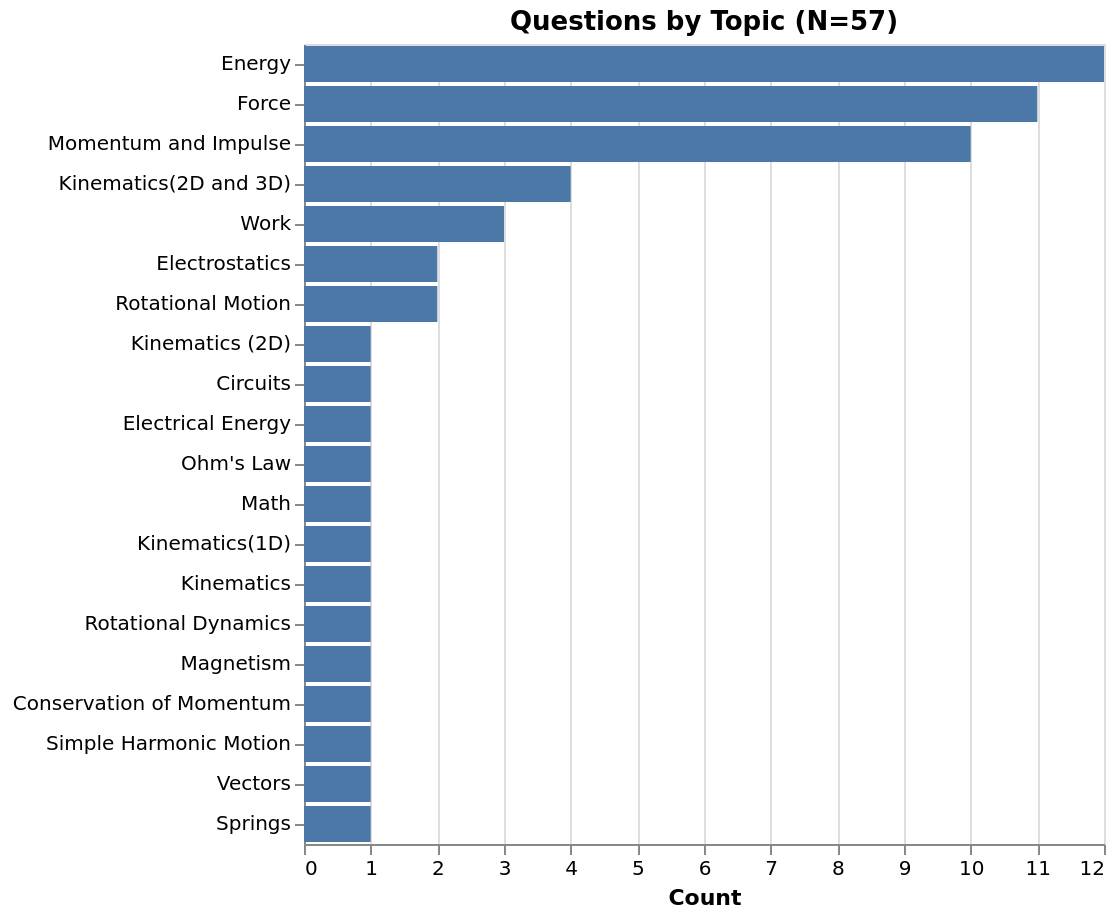
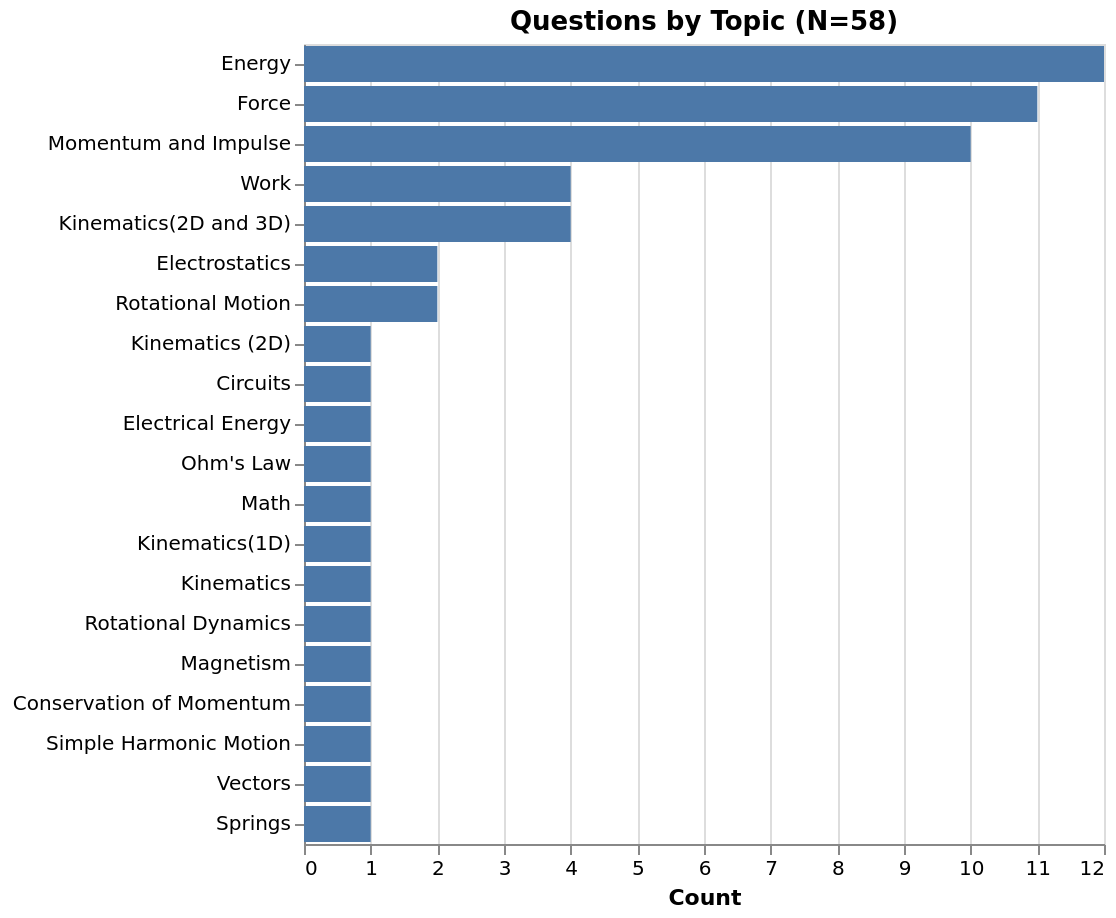
Update TOC via GH Action

Changed region(s): [[0.0609, 0.183, 0.2742, 0.2745], [0.4265, 0.2135, 0.5179, 0.2745], [0.7616, 0.0, 0.7921, 0.0305]]

diff --git a/content/index.md b/content/index.md
@@ -1,0 +1,63 @@
+# Question Index 
+ 
+ 
+ | Question | Public HTML | Public MD | Instructor MD | PL |
+| --------- | --------- | --------- | --------- | --------- |
+1 |  [Q 1](https://firas.moosvi.com/oer/physicsbank/content/content/public/009.Work/Work/force_and_displacement/force_and_displacement.html)| [Q 1](https://github.com/open-resources/physics_bank/blob/main/content/content/public/009.Work/Work/force_and_displacement/force_and_displacement.md) | [Q 1](https://github.com/open-resources/instructor_physics_bank/blob/main/output/content/instructor/009.Work/Work/force_and_displacement/force_and_displacement.md) | [TBD]() | 
+2 |  [Q 2](https://firas.moosvi.com/oer/physicsbank/content/content/public/009.Work/Power/Energy%20Expenditure/Energy%20Expenditure.html)| [Q 2](https://github.com/open-resources/physics_bank/blob/main/content/content/public/009.Work/Power/Energy%20Expenditure/Energy%20Expenditure.md) | [Q 2](https://github.com/open-resources/instructor_physics_bank/blob/main/output/content/instructor/009.Work/Power/Energy%20Expenditure/Energy%20Expenditure.md) | [TBD]() | 
+3 |  [Q 3](https://firas.moosvi.com/oer/physicsbank/content/content/public/009.Work/Work-Energy%20Theorem/work_frictionless_surface/work_frictionless_surface.html)| [Q 3](https://github.com/open-resources/physics_bank/blob/main/content/content/public/009.Work/Work-Energy%20Theorem/work_frictionless_surface/work_frictionless_surface.md) | [Q 3](https://github.com/open-resources/instructor_physics_bank/blob/main/output/content/instructor/009.Work/Work-Energy%20Theorem/work_frictionless_surface/work_frictionless_surface.md) | [TBD]() | 
+4 |  [Q 4](https://firas.moosvi.com/oer/physicsbank/content/content/public/005.Kinematics%282D%20and%203D%29/Uniform%20Circular%20Motion/centripetal_force/centripetal_force.html)| [Q 4](https://github.com/open-resources/physics_bank/blob/main/content/content/public/005.Kinematics%282D%20and%203D%29/Uniform%20Circular%20Motion/centripetal_force/centripetal_force.md) | [Q 4](https://github.com/open-resources/instructor_physics_bank/blob/main/output/content/instructor/005.Kinematics%282D%20and%203D%29/Uniform%20Circular%20Motion/centripetal_force/centripetal_force.md) | [TBD]() | 
+5 |  [Q 5](https://firas.moosvi.com/oer/physicsbank/content/content/public/005.Kinematics%282D%20and%203D%29/Uniform%20Circular%20Motion/angular_speed/angular_speed.html)| [Q 5](https://github.com/open-resources/physics_bank/blob/main/content/content/public/005.Kinematics%282D%20and%203D%29/Uniform%20Circular%20Motion/angular_speed/angular_speed.md) | [Q 5](https://github.com/open-resources/instructor_physics_bank/blob/main/output/content/instructor/005.Kinematics%282D%20and%203D%29/Uniform%20Circular%20Motion/angular_speed/angular_speed.md) | [TBD]() | 
+6 |  [Q 6](https://firas.moosvi.com/oer/physicsbank/content/content/public/005.Kinematics%282D%20and%203D%29/Non-Uniform%20Circular%20Motion/Acceleration%20around%20a%20turn/Acceleration%20around%20a%20turn.html)| [Q 6](https://github.com/open-resources/physics_bank/blob/main/content/content/public/005.Kinematics%282D%20and%203D%29/Non-Uniform%20Circular%20Motion/Acceleration%20around%20a%20turn/Acceleration%20around%20a%20turn.md) | [Q 6](https://github.com/open-resources/instructor_physics_bank/blob/main/output/content/instructor/005.Kinematics%282D%20and%203D%29/Non-Uniform%20Circular%20Motion/Acceleration%20around%20a%20turn/Acceleration%20around%20a%20turn.md) | [TBD]() | 
+7 |  [Q 7](https://firas.moosvi.com/oer/physicsbank/content/content/public/005.Kinematics%282D%20and%203D%29/Non-Uniform%20Circular%20Motion/Turning_Car/Turning_car.html)| [Q 7](https://github.com/open-resources/physics_bank/blob/main/content/content/public/005.Kinematics%282D%20and%203D%29/Non-Uniform%20Circular%20Motion/Turning_Car/Turning_car.md) | [Q 7](https://github.com/open-resources/instructor_physics_bank/blob/main/output/content/instructor/005.Kinematics%282D%20and%203D%29/Non-Uniform%20Circular%20Motion/Turning_Car/Turning_car.md) | [TBD]() | 
+8 |  [Q 8](https://firas.moosvi.com/oer/physicsbank/content/content/public/005.Kinematics%282D%20and%203D%29/Projectile%20Motion/ski_jump/ski_jump.html)| [Q 8](https://github.com/open-resources/physics_bank/blob/main/content/content/public/005.Kinematics%282D%20and%203D%29/Projectile%20Motion/ski_jump/ski_jump.md) | [Q 8](https://github.com/open-resources/instructor_physics_bank/blob/main/output/content/instructor/005.Kinematics%282D%20and%203D%29/Projectile%20Motion/ski_jump/ski_jump.md) | [TBD]() | 
+9 |  [Q 9](https://firas.moosvi.com/oer/physicsbank/content/content/public/006.Force/Topic%20Outcome/The%20max%20acceleration%20without%20slipping/The%20max%20acceleration%20without%20slipping.html)| [Q 9](https://github.com/open-resources/physics_bank/blob/main/content/content/public/006.Force/Topic%20Outcome/The%20max%20acceleration%20without%20slipping/The%20max%20acceleration%20without%20slipping.md) | [Q 9](https://github.com/open-resources/instructor_physics_bank/blob/main/output/content/instructor/006.Force/Topic%20Outcome/The%20max%20acceleration%20without%20slipping/The%20max%20acceleration%20without%20slipping.md) | [TBD]() | 
+10 |  [Q 10](https://firas.moosvi.com/oer/physicsbank/content/content/public/006.Force/Topic%20Outcome/Elevator%20Movement%20Direction/Elevator%20Movement%20Direction.html)| [Q 10](https://github.com/open-resources/physics_bank/blob/main/content/content/public/006.Force/Topic%20Outcome/Elevator%20Movement%20Direction/Elevator%20Movement%20Direction.md) | [Q 10](https://github.com/open-resources/instructor_physics_bank/blob/main/output/content/instructor/006.Force/Topic%20Outcome/Elevator%20Movement%20Direction/Elevator%20Movement%20Direction.md) | [TBD]() | 
+11 |  [Q 11](https://firas.moosvi.com/oer/physicsbank/content/content/public/006.Force/Topic%20Outcome/velocity_netforce/velocity_netforce.html)| [Q 11](https://github.com/open-resources/physics_bank/blob/main/content/content/public/006.Force/Topic%20Outcome/velocity_netforce/velocity_netforce.md) | [Q 11](https://github.com/open-resources/instructor_physics_bank/blob/main/output/content/instructor/006.Force/Topic%20Outcome/velocity_netforce/velocity_netforce.md) | [TBD]() | 
+12 |  [Q 12](https://firas.moosvi.com/oer/physicsbank/content/content/public/006.Force/Topic%20Outcome/ropes_and_blocks/ropes_and_blocks.html)| [Q 12](https://github.com/open-resources/physics_bank/blob/main/content/content/public/006.Force/Topic%20Outcome/ropes_and_blocks/ropes_and_blocks.md) | [Q 12](https://github.com/open-resources/instructor_physics_bank/blob/main/output/content/instructor/006.Force/Topic%20Outcome/ropes_and_blocks/ropes_and_blocks.md) | [TBD]() | 
+13 |  [Q 13](https://firas.moosvi.com/oer/physicsbank/content/content/public/006.Force/Topic%20Outcome/spring_on_incline/spring_on_incline.html)| [Q 13](https://github.com/open-resources/physics_bank/blob/main/content/content/public/006.Force/Topic%20Outcome/spring_on_incline/spring_on_incline.md) | [Q 13](https://github.com/open-resources/instructor_physics_bank/blob/main/output/content/instructor/006.Force/Topic%20Outcome/spring_on_incline/spring_on_incline.md) | [TBD]() | 
+14 |  [Q 14](https://firas.moosvi.com/oer/physicsbank/content/content/public/006.Force/Topic%20Outcome/Rotating%20ball/Rotating%20ball.html)| [Q 14](https://github.com/open-resources/physics_bank/blob/main/content/content/public/006.Force/Topic%20Outcome/Rotating%20ball/Rotating%20ball.md) | [Q 14](https://github.com/open-resources/instructor_physics_bank/blob/main/output/content/instructor/006.Force/Topic%20Outcome/Rotating%20ball/Rotating%20ball.md) | [TBD]() | 
+15 |  [Q 15](https://firas.moosvi.com/oer/physicsbank/content/content/public/006.Force/Equilibrium/Two%20blocks%20connected%20by%20a%20string/Two%20Blocks%20Connected%20by%20a%20String.html)| [Q 15](https://github.com/open-resources/physics_bank/blob/main/content/content/public/006.Force/Equilibrium/Two%20blocks%20connected%20by%20a%20string/Two%20Blocks%20Connected%20by%20a%20String.md) | [Q 15](https://github.com/open-resources/instructor_physics_bank/blob/main/output/content/instructor/006.Force/Equilibrium/Two%20blocks%20connected%20by%20a%20string/Two%20Blocks%20Connected%20by%20a%20String.md) | [TBD]() | 
+16 |  [Q 16](https://firas.moosvi.com/oer/physicsbank/content/content/public/006.Force/Dynamics%20of%20Circular%20Motion/object_on_string/object_on_string.html)| [Q 16](https://github.com/open-resources/physics_bank/blob/main/content/content/public/006.Force/Dynamics%20of%20Circular%20Motion/object_on_string/object_on_string.md) | [Q 16](https://github.com/open-resources/instructor_physics_bank/blob/main/output/content/instructor/006.Force/Dynamics%20of%20Circular%20Motion/object_on_string/object_on_string.md) | [TBD]() | 
+17 |  [Q 17](https://firas.moosvi.com/oer/physicsbank/content/content/public/006.Force/Friction/spring_on_ramp/spring_on_ramp.html)| [Q 17](https://github.com/open-resources/physics_bank/blob/main/content/content/public/006.Force/Friction/spring_on_ramp/spring_on_ramp.md) | [Q 17](https://github.com/open-resources/instructor_physics_bank/blob/main/output/content/instructor/006.Force/Friction/spring_on_ramp/spring_on_ramp.md) | [TBD]() | 
+18 |  [Q 18](https://firas.moosvi.com/oer/physicsbank/content/content/public/006.Force/Friction/Frictional%20Force%20between%20tires%20and%20road/Frictional%20Force%20between%20tires%20and%20road.html)| [Q 18](https://github.com/open-resources/physics_bank/blob/main/content/content/public/006.Force/Friction/Frictional%20Force%20between%20tires%20and%20road/Frictional%20Force%20between%20tires%20and%20road.md) | [Q 18](https://github.com/open-resources/instructor_physics_bank/blob/main/output/content/instructor/006.Force/Friction/Frictional%20Force%20between%20tires%20and%20road/Frictional%20Force%20between%20tires%20and%20road.md) | [TBD]() | 
+19 |  [Q 19](https://firas.moosvi.com/oer/physicsbank/content/content/public/006.Force/Springs/Bungee_jumping/bungee_jumping.html)| [Q 19](https://github.com/open-resources/physics_bank/blob/main/content/content/public/006.Force/Springs/Bungee_jumping/bungee_jumping.md) | [Q 19](https://github.com/open-resources/instructor_physics_bank/blob/main/output/content/instructor/006.Force/Springs/Bungee_jumping/bungee_jumping.md) | [TBD]() | 
+20 |  [Q 20](https://firas.moosvi.com/oer/physicsbank/content/content/public/006.Force/Newton%27s%20Third%20Law/Force%20Vectors/force_vectors.html)| [Q 20](https://github.com/open-resources/physics_bank/blob/main/content/content/public/006.Force/Newton%27s%20Third%20Law/Force%20Vectors/force_vectors.md) | [Q 20](https://github.com/open-resources/instructor_physics_bank/blob/main/output/content/instructor/006.Force/Newton%27s%20Third%20Law/Force%20Vectors/force_vectors.md) | [TBD]() | 
+21 |  [Q 21](https://firas.moosvi.com/oer/physicsbank/content/content/public/021.Circuits/RC%20Circuits/OSUPv2p10_16/OSUPv2p10_16.html)| [Q 21](https://github.com/open-resources/physics_bank/blob/main/content/content/public/021.Circuits/RC%20Circuits/OSUPv2p10_16/OSUPv2p10_16.md) | [Q 21](https://github.com/open-resources/instructor_physics_bank/blob/main/output/content/instructor/021.Circuits/RC%20Circuits/OSUPv2p10_16/OSUPv2p10_16.md) | [TBD]() | 
+22 |  [Q 22](https://firas.moosvi.com/oer/physicsbank/content/content/public/021.Circuits/Current/OSUPv2.9.2/OSUPv2.9.2.html)| [Q 22](https://github.com/open-resources/physics_bank/blob/main/content/content/public/021.Circuits/Current/OSUPv2.9.2/OSUPv2.9.2.md) | [Q 22](https://github.com/open-resources/instructor_physics_bank/blob/main/output/content/instructor/021.Circuits/Current/OSUPv2.9.2/OSUPv2.9.2.md) | [TBD]() | 
+23 |  [Q 23](https://firas.moosvi.com/oer/physicsbank/content/content/public/021.Circuits/Electrical%20Energy/OSUPv2.9.16/OSUPv2.9.16.html)| [Q 23](https://github.com/open-resources/physics_bank/blob/main/content/content/public/021.Circuits/Electrical%20Energy/OSUPv2.9.16/OSUPv2.9.16.md) | [Q 23](https://github.com/open-resources/instructor_physics_bank/blob/main/output/content/instructor/021.Circuits/Electrical%20Energy/OSUPv2.9.16/OSUPv2.9.16.md) | [TBD]() | 
+24 |  [Q 24](https://firas.moosvi.com/oer/physicsbank/content/content/public/021.Circuits/Ohm%27s%20Law/OSUPv2.9.13/OSUPv2.9.13.html)| [Q 24](https://github.com/open-resources/physics_bank/blob/main/content/content/public/021.Circuits/Ohm%27s%20Law/OSUPv2.9.13/OSUPv2.9.13.md) | [Q 24](https://github.com/open-resources/instructor_physics_bank/blob/main/output/content/instructor/021.Circuits/Ohm%27s%20Law/OSUPv2.9.13/OSUPv2.9.13.md) | [TBD]() | 
+25 |  [Q 25](https://firas.moosvi.com/oer/physicsbank/content/content/public/001.Math/Integrals/Rocket/Rocket.html)| [Q 25](https://github.com/open-resources/physics_bank/blob/main/content/content/public/001.Math/Integrals/Rocket/Rocket.md) | [Q 25](https://github.com/open-resources/instructor_physics_bank/blob/main/output/content/instructor/001.Math/Integrals/Rocket/Rocket.md) | [TBD]() | 
+26 |  [Q 26](https://firas.moosvi.com/oer/physicsbank/content/content/public/004.Kinematics%281D%29/Motion%20Diagrams/Running_Dog/Running_Dog.html)| [Q 26](https://github.com/open-resources/physics_bank/blob/main/content/content/public/004.Kinematics%281D%29/Motion%20Diagrams/Running_Dog/Running_Dog.md) | [Q 26](https://github.com/open-resources/instructor_physics_bank/blob/main/output/content/instructor/004.Kinematics%281D%29/Motion%20Diagrams/Running_Dog/Running_Dog.md) | [TBD]() | 
+27 |  [Q 27](https://firas.moosvi.com/oer/physicsbank/content/content/public/004.Kinematics%281D%29/Position/distance_travelled/distance_travelled.html)| [Q 27](https://github.com/open-resources/physics_bank/blob/main/content/content/public/004.Kinematics%281D%29/Position/distance_travelled/distance_travelled.md) | [Q 27](https://github.com/open-resources/instructor_physics_bank/blob/main/output/content/instructor/004.Kinematics%281D%29/Position/distance_travelled/distance_travelled.md) | [TBD]() | 
+28 |  [Q 28](https://firas.moosvi.com/oer/physicsbank/content/content/public/018.Electrostatics/Electric%20Potential/Particle%20between%20charged%20plates/Particle%20between%20charged%20plates.html)| [Q 28](https://github.com/open-resources/physics_bank/blob/main/content/content/public/018.Electrostatics/Electric%20Potential/Particle%20between%20charged%20plates/Particle%20between%20charged%20plates.md) | [Q 28](https://github.com/open-resources/instructor_physics_bank/blob/main/output/content/instructor/018.Electrostatics/Electric%20Potential/Particle%20between%20charged%20plates/Particle%20between%20charged%20plates.md) | [TBD]() | 
+29 |  [Q 29](https://firas.moosvi.com/oer/physicsbank/content/content/public/011.Rotational%20Dynamics/Topic%20Outcome/thread_on_spool/thread_on_spool.html)| [Q 29](https://github.com/open-resources/physics_bank/blob/main/content/content/public/011.Rotational%20Dynamics/Topic%20Outcome/thread_on_spool/thread_on_spool.md) | [Q 29](https://github.com/open-resources/instructor_physics_bank/blob/main/output/content/instructor/011.Rotational%20Dynamics/Topic%20Outcome/thread_on_spool/thread_on_spool.md) | [TBD]() | 
+30 |  [Q 30](https://firas.moosvi.com/oer/physicsbank/content/content/public/002.Physics%20in%20General/Topic%20Outcome/test/test.html)| [Q 30](https://github.com/open-resources/physics_bank/blob/main/content/content/public/002.Physics%20in%20General/Topic%20Outcome/test/test.md) | [Q 30](https://github.com/open-resources/instructor_physics_bank/blob/main/output/content/instructor/002.Physics%20in%20General/Topic%20Outcome/test/test.md) | [TBD]() | 
+31 |  [Q 31](https://firas.moosvi.com/oer/physicsbank/content/content/public/008.Energy/Exploding_Asteroid/Exploding_Asteroid.html)| [Q 31](https://github.com/open-resources/physics_bank/blob/main/content/content/public/008.Energy/Exploding_Asteroid/Exploding_Asteroid.md) | [Q 31](https://github.com/open-resources/instructor_physics_bank/blob/main/output/content/instructor/008.Energy/Exploding_Asteroid/Exploding_Asteroid.md) | [TBD]() | 
+32 |  [Q 32](https://firas.moosvi.com/oer/physicsbank/content/content/public/008.Energy/Kinetic%20Energy/KE_energy_momentum/KE_energy_momentum.html)| [Q 32](https://github.com/open-resources/physics_bank/blob/main/content/content/public/008.Energy/Kinetic%20Energy/KE_energy_momentum/KE_energy_momentum.md) | [Q 32](https://github.com/open-resources/instructor_physics_bank/blob/main/output/content/instructor/008.Energy/Kinetic%20Energy/KE_energy_momentum/KE_energy_momentum.md) | [TBD]() | 
+33 |  [Q 33](https://firas.moosvi.com/oer/physicsbank/content/content/public/008.Energy/Kinetic%20Energy/KE_testmass/KE_testmass.html)| [Q 33](https://github.com/open-resources/physics_bank/blob/main/content/content/public/008.Energy/Kinetic%20Energy/KE_testmass/KE_testmass.md) | [Q 33](https://github.com/open-resources/instructor_physics_bank/blob/main/output/content/instructor/008.Energy/Kinetic%20Energy/KE_testmass/KE_testmass.md) | [TBD]() | 
+34 |  [Q 34](https://firas.moosvi.com/oer/physicsbank/content/content/public/008.Energy/Topic%20Outcome/frictionless_track/frictionless_track.html)| [Q 34](https://github.com/open-resources/physics_bank/blob/main/content/content/public/008.Energy/Topic%20Outcome/frictionless_track/frictionless_track.md) | [Q 34](https://github.com/open-resources/instructor_physics_bank/blob/main/output/content/instructor/008.Energy/Topic%20Outcome/frictionless_track/frictionless_track.md) | [TBD]() | 
+35 |  [Q 35](https://firas.moosvi.com/oer/physicsbank/content/content/public/008.Energy/Topic%20Outcome/spring_oscillations/spring_oscillations.html)| [Q 35](https://github.com/open-resources/physics_bank/blob/main/content/content/public/008.Energy/Topic%20Outcome/spring_oscillations/spring_oscillations.md) | [Q 35](https://github.com/open-resources/instructor_physics_bank/blob/main/output/content/instructor/008.Energy/Topic%20Outcome/spring_oscillations/spring_oscillations.md) | [TBD]() | 
+36 |  [Q 36](https://firas.moosvi.com/oer/physicsbank/content/content/public/008.Energy/Conservation%20of%20Energy/Cut%20The%20Rope/Cut%20The%20Rope.html)| [Q 36](https://github.com/open-resources/physics_bank/blob/main/content/content/public/008.Energy/Conservation%20of%20Energy/Cut%20The%20Rope/Cut%20The%20Rope.md) | [Q 36](https://github.com/open-resources/instructor_physics_bank/blob/main/output/content/instructor/008.Energy/Conservation%20of%20Energy/Cut%20The%20Rope/Cut%20The%20Rope.md) | [TBD]() | 
+37 |  [Q 37](https://firas.moosvi.com/oer/physicsbank/content/content/public/008.Energy/Conservation%20of%20Energy/Energy%20lost%20to%20air%20friction/energy_lost_air_friction.html)| [Q 37](https://github.com/open-resources/physics_bank/blob/main/content/content/public/008.Energy/Conservation%20of%20Energy/Energy%20lost%20to%20air%20friction/energy_lost_air_friction.md) | [Q 37](https://github.com/open-resources/instructor_physics_bank/blob/main/output/content/instructor/008.Energy/Conservation%20of%20Energy/Energy%20lost%20to%20air%20friction/energy_lost_air_friction.md) | [TBD]() | 
+38 |  [Q 38](https://firas.moosvi.com/oer/physicsbank/content/content/public/008.Energy/Conservation%20of%20Energy/ball_race/2012Final_q3.html)| [Q 38](https://github.com/open-resources/physics_bank/blob/main/content/content/public/008.Energy/Conservation%20of%20Energy/ball_race/2012Final_q3.md) | [Q 38](https://github.com/open-resources/instructor_physics_bank/blob/main/output/content/instructor/008.Energy/Conservation%20of%20Energy/ball_race/2012Final_q3.md) | [TBD]() | 
+39 |  [Q 39](https://firas.moosvi.com/oer/physicsbank/content/content/public/008.Energy/Conservation%20of%20Energy/Physics%20of%20Roller%20Coasters/Physics%20of%20Roller%20Coasters.html)| [Q 39](https://github.com/open-resources/physics_bank/blob/main/content/content/public/008.Energy/Conservation%20of%20Energy/Physics%20of%20Roller%20Coasters/Physics%20of%20Roller%20Coasters.md) | [Q 39](https://github.com/open-resources/instructor_physics_bank/blob/main/output/content/instructor/008.Energy/Conservation%20of%20Energy/Physics%20of%20Roller%20Coasters/Physics%20of%20Roller%20Coasters.md) | [TBD]() | 
+40 |  [Q 40](https://firas.moosvi.com/oer/physicsbank/content/content/public/008.Energy/Conservation%20of%20Energy/dissipative_process/dissipative_process.html)| [Q 40](https://github.com/open-resources/physics_bank/blob/main/content/content/public/008.Energy/Conservation%20of%20Energy/dissipative_process/dissipative_process.md) | [Q 40](https://github.com/open-resources/instructor_physics_bank/blob/main/output/content/instructor/008.Energy/Conservation%20of%20Energy/dissipative_process/dissipative_process.md) | [TBD]() | 
+41 |  [Q 41](https://firas.moosvi.com/oer/physicsbank/content/content/public/008.Energy/Potential%20Energy/Collision%20of%20cart%20with%20spring/Collision%20of%20cart%20with%20spring.html)| [Q 41](https://github.com/open-resources/physics_bank/blob/main/content/content/public/008.Energy/Potential%20Energy/Collision%20of%20cart%20with%20spring/Collision%20of%20cart%20with%20spring.md) | [Q 41](https://github.com/open-resources/instructor_physics_bank/blob/main/output/content/instructor/008.Energy/Potential%20Energy/Collision%20of%20cart%20with%20spring/Collision%20of%20cart%20with%20spring.md) | [TBD]() | 
+42 |  [Q 42](https://firas.moosvi.com/oer/physicsbank/content/content/public/019.Magnetism/Magnetic%20Force/Electron%20in%20a%20Solenoid/Electron%20in%20a%20Solenoid.html)| [Q 42](https://github.com/open-resources/physics_bank/blob/main/content/content/public/019.Magnetism/Magnetic%20Force/Electron%20in%20a%20Solenoid/Electron%20in%20a%20Solenoid.md) | [Q 42](https://github.com/open-resources/instructor_physics_bank/blob/main/output/content/instructor/019.Magnetism/Magnetic%20Force/Electron%20in%20a%20Solenoid/Electron%20in%20a%20Solenoid.md) | [TBD]() | 
+43 |  [Q 43](https://firas.moosvi.com/oer/physicsbank/content/content/public/010.Rotational%20Motion/Rotational%20Energy/Inertia%20of%20T-shaped%20rod/Inertia%20of%20T-shaped%20rod.html)| [Q 43](https://github.com/open-resources/physics_bank/blob/main/content/content/public/010.Rotational%20Motion/Rotational%20Energy/Inertia%20of%20T-shaped%20rod/Inertia%20of%20T-shaped%20rod.md) | [Q 43](https://github.com/open-resources/instructor_physics_bank/blob/main/output/content/instructor/010.Rotational%20Motion/Rotational%20Energy/Inertia%20of%20T-shaped%20rod/Inertia%20of%20T-shaped%20rod.md) | [TBD]() | 
+44 |  [Q 44](https://firas.moosvi.com/oer/physicsbank/content/content/public/010.Rotational%20Motion/Topic%20Outcome/Wheel_of_fortune/Wheel_of_fortune.html)| [Q 44](https://github.com/open-resources/physics_bank/blob/main/content/content/public/010.Rotational%20Motion/Topic%20Outcome/Wheel_of_fortune/Wheel_of_fortune.md) | [Q 44](https://github.com/open-resources/instructor_physics_bank/blob/main/output/content/instructor/010.Rotational%20Motion/Topic%20Outcome/Wheel_of_fortune/Wheel_of_fortune.md) | [TBD]() | 
+45 |  [Q 45](https://firas.moosvi.com/oer/physicsbank/content/content/public/007.Momentum%20and%20Impulse/2D%20Collisions/light_heavy_collision/light_heavy_collision.html)| [Q 45](https://github.com/open-resources/physics_bank/blob/main/content/content/public/007.Momentum%20and%20Impulse/2D%20Collisions/light_heavy_collision/light_heavy_collision.md) | [Q 45](https://github.com/open-resources/instructor_physics_bank/blob/main/output/content/instructor/007.Momentum%20and%20Impulse/2D%20Collisions/light_heavy_collision/light_heavy_collision.md) | [TBD]() | 
+46 |  [Q 46](https://firas.moosvi.com/oer/physicsbank/content/content/public/007.Momentum%20and%20Impulse/2D%20Collisions/billiards_collision/billiards_collision.html)| [Q 46](https://github.com/open-resources/physics_bank/blob/main/content/content/public/007.Momentum%20and%20Impulse/2D%20Collisions/billiards_collision/billiards_collision.md) | [Q 46](https://github.com/open-resources/instructor_physics_bank/blob/main/output/content/instructor/007.Momentum%20and%20Impulse/2D%20Collisions/billiards_collision/billiards_collision.md) | [TBD]() | 
+47 |  [Q 47](https://firas.moosvi.com/oer/physicsbank/content/content/public/007.Momentum%20and%20Impulse/Conservation%20of%20Momentum/Raindrops_Collision/raindrops_collision.html)| [Q 47](https://github.com/open-resources/physics_bank/blob/main/content/content/public/007.Momentum%20and%20Impulse/Conservation%20of%20Momentum/Raindrops_Collision/raindrops_collision.md) | [Q 47](https://github.com/open-resources/instructor_physics_bank/blob/main/output/content/instructor/007.Momentum%20and%20Impulse/Conservation%20of%20Momentum/Raindrops_Collision/raindrops_collision.md) | [TBD]() | 
+48 |  [Q 48](https://firas.moosvi.com/oer/physicsbank/content/content/public/007.Momentum%20and%20Impulse/Conservation%20of%20Momentum/Isolated_systems/Isolated_systems.html)| [Q 48](https://github.com/open-resources/physics_bank/blob/main/content/content/public/007.Momentum%20and%20Impulse/Conservation%20of%20Momentum/Isolated_systems/Isolated_systems.md) | [Q 48](https://github.com/open-resources/instructor_physics_bank/blob/main/output/content/instructor/007.Momentum%20and%20Impulse/Conservation%20of%20Momentum/Isolated_systems/Isolated_systems.md) | [TBD]() | 
+49 |  [Q 49](https://firas.moosvi.com/oer/physicsbank/content/content/public/007.Momentum%20and%20Impulse/Conservation%20of%20Momentum/Explosions_and_Velocity/Explosions_and_Velocity.html)| [Q 49](https://github.com/open-resources/physics_bank/blob/main/content/content/public/007.Momentum%20and%20Impulse/Conservation%20of%20Momentum/Explosions_and_Velocity/Explosions_and_Velocity.md) | [Q 49](https://github.com/open-resources/instructor_physics_bank/blob/main/output/content/instructor/007.Momentum%20and%20Impulse/Conservation%20of%20Momentum/Explosions_and_Velocity/Explosions_and_Velocity.md) | [TBD]() | 
+50 |  [Q 50](https://firas.moosvi.com/oer/physicsbank/content/content/public/007.Momentum%20and%20Impulse/Conservation%20of%20Momentum/mass_spring_collision/mass_spring_collision.html)| [Q 50](https://github.com/open-resources/physics_bank/blob/main/content/content/public/007.Momentum%20and%20Impulse/Conservation%20of%20Momentum/mass_spring_collision/mass_spring_collision.md) | [Q 50](https://github.com/open-resources/instructor_physics_bank/blob/main/output/content/instructor/007.Momentum%20and%20Impulse/Conservation%20of%20Momentum/mass_spring_collision/mass_spring_collision.md) | [TBD]() | 
+51 |  [Q 51](https://firas.moosvi.com/oer/physicsbank/content/content/public/007.Momentum%20and%20Impulse/Conservation%20of%20Momentum/System_Open_or_Closed/System_Open_or_Closed.html)| [Q 51](https://github.com/open-resources/physics_bank/blob/main/content/content/public/007.Momentum%20and%20Impulse/Conservation%20of%20Momentum/System_Open_or_Closed/System_Open_or_Closed.md) | [Q 51](https://github.com/open-resources/instructor_physics_bank/blob/main/output/content/instructor/007.Momentum%20and%20Impulse/Conservation%20of%20Momentum/System_Open_or_Closed/System_Open_or_Closed.md) | [TBD]() | 
+52 |  [Q 52](https://firas.moosvi.com/oer/physicsbank/content/content/public/007.Momentum%20and%20Impulse/Impulse/airbag_collision/airbag_collision.html)| [Q 52](https://github.com/open-resources/physics_bank/blob/main/content/content/public/007.Momentum%20and%20Impulse/Impulse/airbag_collision/airbag_collision.md) | [Q 52](https://github.com/open-resources/instructor_physics_bank/blob/main/output/content/instructor/007.Momentum%20and%20Impulse/Impulse/airbag_collision/airbag_collision.md) | [TBD]() | 
+53 |  [Q 53](https://firas.moosvi.com/oer/physicsbank/content/content/public/007.Momentum%20and%20Impulse/Impulse/Bouncing_Ball/Bouncing_Ball.html)| [Q 53](https://github.com/open-resources/physics_bank/blob/main/content/content/public/007.Momentum%20and%20Impulse/Impulse/Bouncing_Ball/Bouncing_Ball.md) | [Q 53](https://github.com/open-resources/instructor_physics_bank/blob/main/output/content/instructor/007.Momentum%20and%20Impulse/Impulse/Bouncing_Ball/Bouncing_Ball.md) | [TBD]() | 
+54 |  [Q 54](https://firas.moosvi.com/oer/physicsbank/content/content/public/007.Momentum%20and%20Impulse/Momentum/Dinner_Plate/dinner_plate.html)| [Q 54](https://github.com/open-resources/physics_bank/blob/main/content/content/public/007.Momentum%20and%20Impulse/Momentum/Dinner_Plate/dinner_plate.md) | [Q 54](https://github.com/open-resources/instructor_physics_bank/blob/main/output/content/instructor/007.Momentum%20and%20Impulse/Momentum/Dinner_Plate/dinner_plate.md) | [TBD]() | 
+55 |  [Q 55](https://firas.moosvi.com/oer/physicsbank/content/content/public/007.Momentum%20and%20Impulse/Momentum/Momentum_and_Inertia/Momentum_and_Inertia.html)| [Q 55](https://github.com/open-resources/physics_bank/blob/main/content/content/public/007.Momentum%20and%20Impulse/Momentum/Momentum_and_Inertia/Momentum_and_Inertia.md) | [Q 55](https://github.com/open-resources/instructor_physics_bank/blob/main/output/content/instructor/007.Momentum%20and%20Impulse/Momentum/Momentum_and_Inertia/Momentum_and_Inertia.md) | [TBD]() | 
+56 |  [Q 56](https://firas.moosvi.com/oer/physicsbank/content/content/public/007.Momentum%20and%20Impulse/Momentum/Rock_Powered_Rocket/Rock_Powered_Rocket.html)| [Q 56](https://github.com/open-resources/physics_bank/blob/main/content/content/public/007.Momentum%20and%20Impulse/Momentum/Rock_Powered_Rocket/Rock_Powered_Rocket.md) | [Q 56](https://github.com/open-resources/instructor_physics_bank/blob/main/output/content/instructor/007.Momentum%20and%20Impulse/Momentum/Rock_Powered_Rocket/Rock_Powered_Rocket.md) | [TBD]() | 
+57 |  [Q 57](https://firas.moosvi.com/oer/physicsbank/content/content/public/003.Vectors/Topic%20Outcome/Choose_all_Vectors_Scalars/Choose_all_Vectors_Scalars.html)| [Q 57](https://github.com/open-resources/physics_bank/blob/main/content/content/public/003.Vectors/Topic%20Outcome/Choose_all_Vectors_Scalars/Choose_all_Vectors_Scalars.md) | [Q 57](https://github.com/open-resources/instructor_physics_bank/blob/main/output/content/instructor/003.Vectors/Topic%20Outcome/Choose_all_Vectors_Scalars/Choose_all_Vectors_Scalars.md) | [TBD]() | 
+58 |  [Q 58](https://firas.moosvi.com/oer/physicsbank/content/content/public/014.Elasticity/Topic%20Outcome/Identical%20Mass-Springs%20with%20different%20Displacement/Identical%20Mass-Springs%20with%20different%20Displacement.html)| [Q 58](https://github.com/open-resources/physics_bank/blob/main/content/content/public/014.Elasticity/Topic%20Outcome/Identical%20Mass-Springs%20with%20different%20Displacement/Identical%20Mass-Springs%20with%20different%20Displacement.md) | [Q 58](https://github.com/open-resources/instructor_physics_bank/blob/main/output/content/instructor/014.Elasticity/Topic%20Outcome/Identical%20Mass-Springs%20with%20different%20Displacement/Identical%20Mass-Springs%20with%20different%20Displacement.md) | [TBD]() | 
